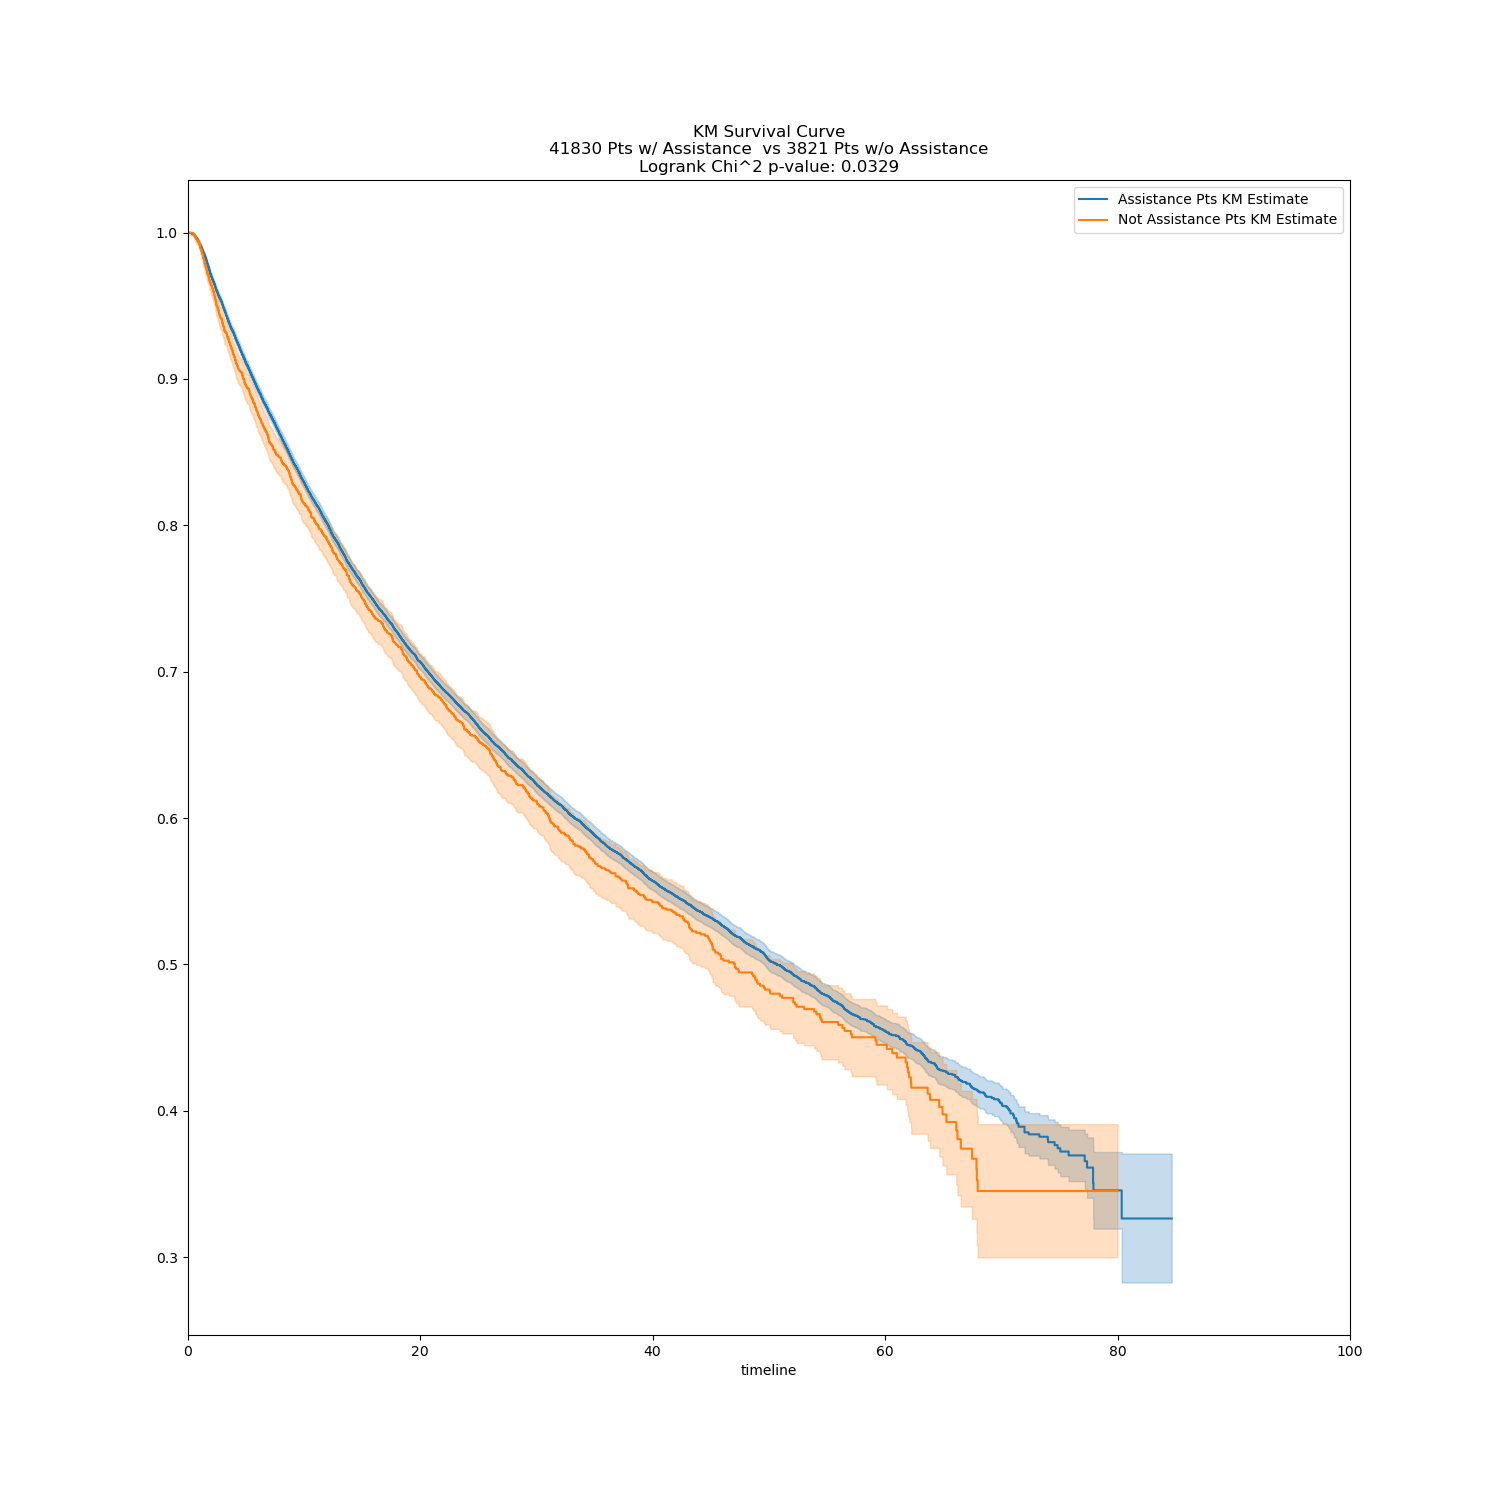
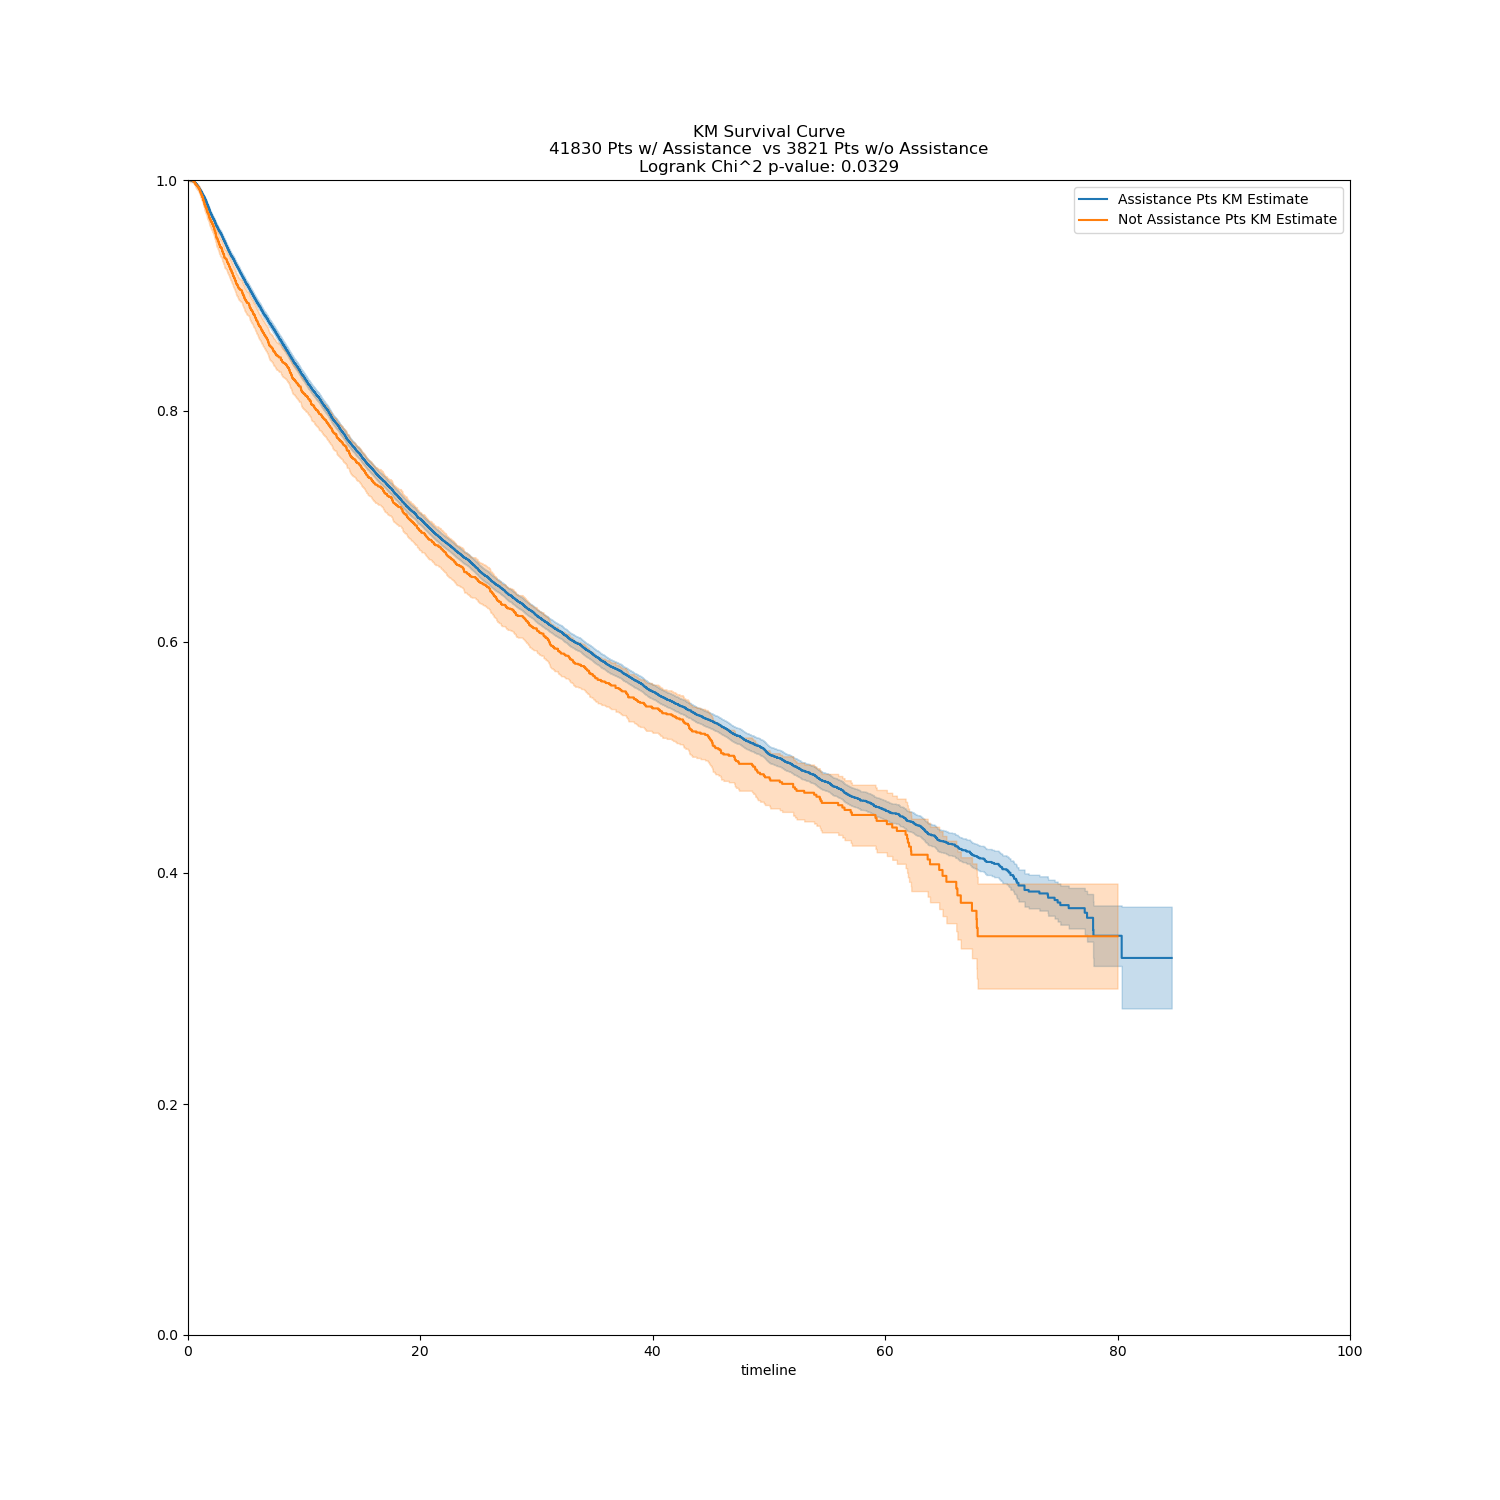
CPH working

Changed region(s): [[0.1227, 0.1227, 0.7973, 0.8587]]

diff --git a/analysis.py b/analysis.py
@@ -50,6 +50,58 @@ def plot_KM_curve(df, feat, ax):
     true_kmf.plot_survival_function(ax=ax)
     false_kmf.plot_survival_function(ax=ax)
     ax.set_xlim(0, 100)
+    ax.set_ylim(0, 1)
+
+
+def plot_CPH_model(df, ax):
+    """
+    Fits a Cox Proportional Hazard model to the survival of pts who saw a specific disipline e.g. psychiatry
+
+    Examines the possible imapct of features in the CPH_COLS global
+
+    :param df_dspln: df of pts who saw a specific disicpline
+    :param dspln_to_link: discipline to conduct analysis on
+    :param ax: matplotlib subplot axis to plot onto
+    :return: nothing, but plots figure to supplied axis
+    """
+    # Make a df from the discipline's df which just the columns we need or are examining
+    cph_cols = ['age_dx', 'observed_mo', 'male', 'died'] + SOC_ISO_FEATS # Columns for our CPH Model, CPH_COLS are what variables are examined
+
+    df = df.copy()[cph_cols]
+    #df['sex'] = df['sex'].replace({"F": 1, "M": 0}) # Convert to dummy variable (one-hot) for chpfitter
+
+    # Drop columns if no variablility; some variables of interest may be constant given filtering (e.g. phx_Subset is hx_dep, remove this variable from this analysus)
+    #df = df.loc[:, (df != df.iloc[0]).any()]
+
+
+    # Build dict for renaming and rename, just for aesthetics
+    #rename_dict = FIG_VAR_NAME_DICT
+    #for need in list(PSSCAN_COLNAME_MAP.keys()):
+    #    rename_dict[need] = PSSCAN_COLNAME_MAP[need] + " need"
+    #for dspln in DISCIPLINES_OF_INTEREST:
+    #    rename_dict[dspln] = 'saw ' + dspln
+
+
+
+
+
+    #df = df.rename(columns=rename_dict)
+    ##df = df.drop(columns=['female'])  # Temp for research day figure
+
+    # Prepare plot
+    ax.set_title(f'Cox Proportional Hazard Coefficeints for Mortality')
+
+
+
+    # Fit CoxPHFitter
+    cph = CoxPHFitter()  ## Instantiate the class to create a cph object
+    cph.fit(df, 'observed_mo', event_col='died')
+
+
+
+    cph.print_summary()
+    print(f"plotting CPH Ratios")
+    cph.plot(ax=ax)
 
 
 def analysis(results_dir=RESULTS_DIR):
@@ -70,6 +122,17 @@ def analysis(results_dir=RESULTS_DIR):
         fig.savefig(fig_filename)
         print(f"printed to {fig_filename}")
         plt.close(fig)
+
+    # Create a matplot figure with two subplots, add the plots, and save
+    fig, axs = plt.subplots(1)
+    fig.set_figheight(15)
+    fig.set_figwidth(15)
+
+    plot_CPH_model(df, axs)
+    fig_filename = results_dir + 'cph_.png'
+    fig.savefig(fig_filename)
+    print(f"printed to {fig_filename}")
+    plt.close(fig)
 
 
 if __name__ == '__main__':

diff --git a/preprocesser.py b/preprocesser.py
@@ -35,7 +35,6 @@ def preprocess(pts_csv=RAW_PRISM_CSV, data_dir=DATA_DIR, overwrite=False):
     #df['PatStatus'] = df['PatStatus'].replace(r'^\s*$', False, regex=True)
     df['PatStatus'] = df['PatStatus'].fillna(False)
     df['PatStatus'] = df['PatStatus'].replace({"blank!": False, 'A': False, 'D': True})
-    df = df.rename(columns={"PatStatus": "died", "Dx_to_death_lastfu_months": "observed_mo"})
 
     # For the various social isolation features, fill blanks with mode, and convert to True/False
     for feature in SOC_ISO_FEATS:
@@ -45,6 +44,13 @@ def preprocess(pts_csv=RAW_PRISM_CSV, data_dir=DATA_DIR, overwrite=False):
         df[feature] = df[feature].replace({"B": mode, "99": mode})
         df[feature] = df[feature].replace({"Y": True, "N": False, "1":True, "0":False, "B":mode, "99":mode})
 
+    # Convert sex
+    df['Sex'] = df['Sex'].replace({'M': True, 'F': False})
+
+    # Rename columns
+    df = df.rename(columns={"PatStatus": "died", "Dx_to_death_lastfu_months": "observed_mo", 'Sex':'male', 'AgeAtDiagnosis': 'age_dx'})
+
+    #print(df.dtypes) # check data dtypes
     df.to_csv(filename)
 
     return df

diff --git a/globals.py b/globals.py
@@ -9,8 +9,7 @@ INDEX = "Other_Study_ID"
 
 # Features to extract from the raw PRSIM file
 SOC_ISO_FEATS = ['LiveAlone', 'LostSpousePartner', 'Assistance', 'RegularContact', 'EmotionalSupport', 'Social_isolation_YN']
-FROM_PRISM = ['PatStatus', 'Dx_to_death_lastfu_months'] + SOC_ISO_FEATS
-
+FROM_PRISM = ['PatStatus', 'Dx_to_death_lastfu_months', 'AgeAtDiagnosis', 'Sex'] + SOC_ISO_FEATS
 
 # If want to calculate seperately, used following, slightly different from what exists
 # 'DiagnosisDate', 'Death_or_lastfu_date']
